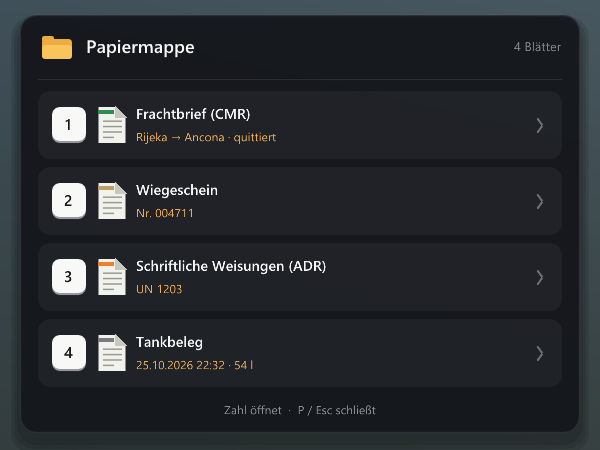
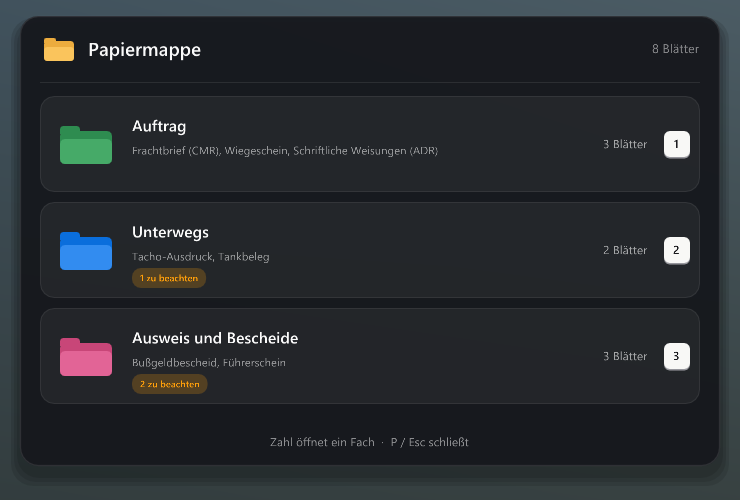
BeyondCab 1.2.0

diff --git a/CHANGELOG.md b/CHANGELOG.md
@@ -1,5 +1,94 @@
 # Änderungen · Changelog
 
+## 1.2.0
+
+**Führerschein, Bußgeldbescheide, Gurt und neue Ausrüstung** – dazu eine neue Papiermappe und Modelle, die aussehen wie die Deko des Spiels.
+
+### Neu
+
+- Führerschein (ETS2) bzw. CDL (ATS) mit eigenen Daten und Foto (Profilbild des Spielprofils oder eigenes Bild): Klassen, ADR-Bescheinigung mit Tankkurs, Code 95; in ATS CDL-Klasse, Endorsements und DOT Medical Card – einstellbar unter Papiere › Führerschein
+- Prüfungen: Die Polizei prüft bei jeder Kontrolle Klasse und Nachweise, der Blitzer meldet eine fehlende Fahrerlaubnis per Brief, der Verlader gibt ohne gültige ADR-Bescheinigung bzw. Hazmat-Endorsement keine Gefahrgut-Papiere heraus, an Wiegestationen in ATS prüft der DOT-Beamte CDL und Medical Card
+- Prüfkarte oben rechts: beim Annehmen eines Auftrags (bei Gefahrgut immer) und wenn der Verlader prüft – was der Auftrag verlangt, mit Haken, Ausrufezeichen oder Kreuz
+- Ablaufdaten: ADR-Bescheinigung, Code 95 und Medical Card laufen ab – Erinnerung eine Woche vorher, Verlängern im Menü
+- Bußgeldbescheide nach jeder Kontrolle und einige Stunden nach dem Blitzer: in Deutschland nach OWiG mit Gebühr und Auslagen, im Ausland mit Titel in der Landessprache, in ATS als Traffic Citation – die letzten 20 bleiben gespeichert, im Menü unter Papiere und als PDF
+- Anschnallen (abschaltbar): Gurt mit J; ohne Gurt ab 25 km/h Warnleuchte und Gong in Intervallen wie im Auto (Lautstärke einstellbar), die Polizei kassiert 30 € bzw. 50 $
+- Papiermappe mit Fächern (Auftrag, Unterwegs, Ausweis und Bescheide): Zahl öffnet ein Fach, dann ein Blatt, P geht zurück
+- Papiere auch im stehenden Truck bzw. Auto ansehen (P blättert durch); Größe der Papiere einstellbar, zu Fuß und im Fahrzeug getrennt
+- Führerschein-Seite im Menü mit Unterseiten (Übersicht, Daten, Klassen, Nachweise): Vorschau der Karte, per Klick groß; Klassen als Kacheln mit Sinnbild; Land bzw. Bundesstaat aus einer Liste; Nachweise mit Gültigkeit und Verlängern in einer Zeile; in ATS erklärt die CDL-Seite jede Klasse und jedes Endorsement
+- Frachtbrief bzw. Bill of Lading: deine Firma aus dem Spielprofil (oder ein eigener Name) als Frachtführer, dazu der Fahrername (abschaltbar) – unterschrieben wird als Fahrer
+- Papiere als PDF speichern: Frachtbriefe, Tankbelege und Bescheide (Menü › Papiere)
+- Erste-Hilfe-Kasten im Staukasten – in ETS2 bei Kontrollen Pflicht
+- Arbeitsleuchte: LED-Strahler mit Akku auf einem Dreibein, leuchtet wirklich, an- und ausschaltbar
+- Taschenlampe: SOS-Modus (blinkt im Morsetakt), und du wählst, welche Modi beim Halten durchgeschaltet werden
+- Ladungssicherung bei der Abfahrtskontrolle je nach Aufbau: Spanngurte, Ketten, Radgurte, Rungen, Twistlocks, Plane, Domdeckel
+- Automatische Updates: BeyondCab sucht beim Start nach einer neuen Version und installiert sie auf Wunsch (Menü › Allgemein › Updates)
+- Einführung: neue Schritte, in denen du Führerschein bzw. CDL gleich einstellst und Kontrollen, Bescheide und Gurt an- oder abschaltest
+
+### Verbessert
+
+- Staukasten neu: Kacheln mit Symbol, wie viele im Kasten und wie viele draußen stehen
+- Eigene Modelle wie die Deko des Spiels: weiche Schattierung in Ecken und Kanten, kaum noch Plastik-Glanz, ruhigere Texturen
+- Road Trip: statt eines Klemmbretts liegt die echte Sendung (Umschlag, Aktenkoffer, Paket) neben Absender bzw. Empfänger
+- ATS: Begriffe wie in den USA (Bill of Lading, Scale Ticket, Citation, ELD) auch in den Meldungen
+- Menü: Pfeile zu Truck, Auflieger und Mitarbeiter als eigener Abschnitt „Wegweiser“, alle Lautstärken unter Geräusche, Auswahllisten mit Kürzel und Namen
+
+### Behoben
+
+- Tasten (Aktion, Taschenlampe, Funkschlüssel, Schnellwahl, Zahlen, PIN am Terminal) reagierten auch, wenn ein anderes Fenster vorne war; Alt+Tab öffnete das Schnellwahl-Rad
+- Nach dem Laden eines Spielstands galt der Truck teils noch als abgeschlossen
+- Abkoppeln ohne Feststellbremse: Die Bremse, die BeyondCab gezogen hatte, wurde gelöst, während man noch draußen stand
+- Road Trip im Auto: Meldung „nicht am ELD angemeldet“, Lkw-Ausrüstung bei der Kontrolle verlangt, Meldungen auf Englisch teils deutsch
+- ATS: Hinweis auf schriftliche Weisungen (ADR), die es dort nicht gibt
+- Taschenlampe: Lichtkegel schwenkte nach dem Einschalten aus der alten Richtung heran
+- Plombe lag bei manchen Aufliegern im Aufbau statt an den Türen
+- An Wiegestationen bzw. Kontrollstellen wurde man bei längerem Stehen alle 2 Spielstunden erneut kontrolliert
+- Feuerlöscher: Spalt zwischen Standring und Behälter
+
+---
+
+**Driving licence, fine notices, seatbelt and new equipment** – plus a new paper folder and models that look like the game's own decorations.
+
+### New
+
+- Driving licence (ETS2) or CDL (ATS) with your own data and photo (your game profile picture or your own image): classes, ADR certificate with tank course, code 95; in ATS CDL class, endorsements and DOT medical card – set under Papers › Licence
+- Checks: police check your class and certificates at every stop, speed cameras report a missing licence by letter, the shipper hands out no dangerous goods papers without a valid ADR certificate or hazmat endorsement, at ATS weigh stations the DOT officer checks CDL and medical card
+- Check card at the top right: when you accept a job (always with dangerous goods) and when the shipper checks – what the job requires, with tick, exclamation mark or cross
+- Expiry dates: ADR certificate, code 95 and medical card expire – reminder a week before, renew in the menu
+- Notices of fine after every check and a few hours after a speed camera: in Germany under the OWiG with fee and expenses, abroad with the title in the local language, in ATS as a traffic citation – the last 20 are kept, in the menu under Papers and as PDF
+- Seatbelt (optional): buckle up with J; without it, above 25 km/h a warning light and a chime in intervals like in a car (volume adjustable), the police charge €30 or $50
+- Paper folder with sections (Job, On the road, Licence and fines): a number opens a section, then a sheet, P goes back
+- View papers while the truck or car is standing (P pages through); paper size adjustable, separately on foot and in the vehicle
+- Licence page in the menu with sub-pages (overview, details, classes, certificates): card preview, click to view it large; classes as tiles with symbols; country or state from a list; certificates with validity and renewal in one row; in ATS the CDL page explains every class and endorsement
+- Consignment note or bill of lading: your company from the game profile (or a name of your own) as the carrier, plus the driver's name (optional) – you sign as the driver
+- Save papers as PDF: consignment notes, fuel receipts and notices (menu › Papers)
+- First aid kit in the storage box – required at checks in ETS2
+- Work light: battery LED floodlight on a tripod, really lights up, can be switched on and off
+- Flashlight: SOS mode (blinks in Morse rhythm), and you choose which modes holding the key cycles through
+- Load securing at the departure check depending on the body: straps, chains, wheel straps, stakes, twistlocks, tarp, dome lids
+- Automatic updates: BeyondCab checks for a new version at start and installs it if you want (menu › General › Updates)
+- Introduction: new steps to set up your licence or CDL right away and to switch checks, notices and seatbelt on or off
+
+### Improved
+
+- New storage box: tiles with icon, how many are in the box and how many are out
+- Own models like the game's decorations: soft shading in corners and edges, hardly any plastic shine, calmer textures
+- Road Trip: instead of a clipboard the real parcel (envelope, briefcase, box) lies next to the sender or recipient
+- ATS: US terms (bill of lading, scale ticket, citation, ELD) in the messages too
+- Menu: pointers to truck, trailer and worker in their own "Pointers" section, all volumes under Sounds, pick lists with code and name
+
+### Fixed
+
+- Keys (action, flashlight, remote key, quick menu, numbers, PIN at the terminal) also reacted while another window was in front; Alt+Tab opened the quick menu
+- After loading a save the truck sometimes still counted as locked
+- Uncoupling without the parking brake: the brake BeyondCab had applied was released while you were still outside
+- Road Trip in a car: "not logged in to the ELD" message, truck equipment demanded at checks, some English messages partly German
+- ATS: hint about instructions in writing (ADR), which don't exist there
+- Flashlight: the beam swung in from the old direction after switching on
+- On some trailers the seal sat inside the body instead of at the doors
+- At weigh stations and inspection points you were checked again every 2 game hours if you stayed there
+- Fire extinguisher: gap between the base ring and the cylinder
+
+
 ## 1.1.0
 
 **ETS2 Walk heißt jetzt BeyondCab** und läuft auch in American Truck Simulator. Das Setup löst die alte Installation ab, Einstellungen und Papiere werden übernommen.

diff --git a/README.de.md b/README.de.md
@@ -28,6 +28,8 @@ Aussteigen, um den Truck gehen, von Hand kuppeln, Papiere unterschreiben, tanken
 
 📄 **Papiere wie in echt** – In ETS2 der CMR-Frachtbrief vom Lager-Mitarbeiter, in ATS die Bill of Lading. Selbst unterschreiben und stempeln, am Ziel quittiert zurück. Dazu Plombe, Wiegeschein, Gefahrgut-Papiere, Fahrerkarte bzw. ELD und Polizei- bzw. DOT-Kontrollen.
 
+🪪 **Führerschein und Bußgeld** – Dein Führerschein (ETS2) bzw. deine CDL (ATS) mit Klassen, ADR und Code 95 bzw. Endorsements und Medical Card – mit deinem Profilbild aus dem Spiel. Polizei, Blitzer und Verlader prüfen ihn, Bußgeldbescheide bzw. Strafzettel kommen in die Papiermappe. Und anschnallen: Ohne Gurt warnt der Gong.
+
 ⛽ **Tanken mit Karte** – Tankdeckel auf, Karte ins Terminal, PIN, an der Säule zählen Betrag und Liter (in ATS Gallonen und Dollar) mit, danach gibt es einen Beleg.
 
 📦 **Road Trip (ATS)** – Bei Kurieraufträgen holst du die Sendung beim Absender ab, legst sie auf den Beifahrersitz und übergibst sie am Ziel dem Empfänger – mit Lieferschein.
@@ -49,7 +51,7 @@ Am Spiel selbst wird nichts verändert: keine Mods in den Spieldateien, keine Ä
 | ![Frachtbrief](bilder/frachtbrief-de.png) | ![Bill of Lading](bilder/bill-of-lading.png) |
 | CMR-Frachtbrief (ETS2), quittiert | Bill of Lading mit HAZMAT (ATS) |
 | ![Papiermappe](bilder/papiermappe-de.png) | ![Schnellwahl](bilder/schnellwahl-de.png) |
-| Papiermappe (P) | Schnellwahl-Rad (Tab halten) |
+| Papiermappe (P) mit Fächern | Schnellwahl-Rad (Tab halten) |
 | ![Tanken](bilder/tanken-de.png) | ![Tanken in den USA](bilder/tanken-us.png) |
 | Tankbeleg, Kartenterminal und Zapfsäule | Dasselbe in ATS: Gallonen und Dollar |
 | ![Schriftliche Weisungen](bilder/weisungen-de.png) | ![ELD](bilder/eld.png) |
@@ -104,13 +106,24 @@ Am Spiel selbst wird nichts verändert: keine Mods in den Spieldateien, keine Ä
 <summary><b>Aufträge und Papiere</b></summary>
 
 - Bei jedem Auftrag steht ein Lager-Mitarbeiter neben dem Auflieger und gibt dir die Papiere: in ETS2 der CMR-Frachtbrief im Durchschreibesatz, in ATS die Bill of Lading – mit Firmen, Städten, Ladung, Gewicht und Kennzeichen aus dem Auftrag
-- Du unterschreibst selbst mit der Maus und drückst deinen Stempel drauf. Name und Ort stellst du im Menü ein
+- Du unterschreibst selbst mit der Maus und drückst deinen Stempel drauf. Die Firma kommt aus deinem Spielprofil (oder du trägst eine eigene ein), dazu dein Name als Fahrer
 - Am Ziel gibst du sie beim Mitarbeiter ab, nach dem Entladen bekommst du sie quittiert zurück. „Parken überspringen“ zählt wie die Übergabe
 - Verplombte Auflieger, eigener Auflieger mit Verladeschein, Palettentausch (ETS2), Wiegeschein bei Tank, Silo und Schüttgut
 - Gefahrgut: in ETS2 nach ADR mit Schriftlichen Weisungen, in ATS nach 49 CFR mit HAZMAT-Kennzeichnung und ERG-Leitfaden
 - Polizei- bzw. DOT-Kontrollen: Hält dich die Polizei an, prüft sie Papiere, Fahrerkarte bzw. ELD und bei Gefahrgut die Ausrüstung. Was fehlt, kostet ein Bußgeld
 - Kühlauflieger: Am Kühlaggregat druckst du das Temperaturprotokoll aus
-- Alles steckt in der Papiermappe (P), die letzten Papiere liegen im Menü unter Papiere
+- Alles steckt in der Papiermappe (P), sortiert in Fächer – auch im stehenden Fahrzeug. Die letzten Papiere liegen im Menü unter Papiere und lassen sich als PDF speichern
+
+</details>
+
+<details>
+<summary><b>Führerschein, Kontrollen und Bußgeld</b></summary>
+
+- Dein Führerschein (ETS2) bzw. deine CDL (ATS) als Karte: Name, Geburtsdatum, Foto (Profilbild aus dem Spiel oder ein eigenes), Klassen, ADR-Bescheinigung und Code 95 – in ATS CDL-Klasse, Endorsements und DOT Medical Card. Einstellen in der Einführung oder unter Papiere › Führerschein
+- Beim Annehmen eines Auftrags zeigt eine Karte oben rechts, ob dein Führerschein reicht. Ohne gültige ADR-Bescheinigung bzw. Hazmat-Endorsement gibt der Verlader keine Gefahrgut-Papiere heraus
+- Polizei und DOT prüfen Klasse und Nachweise, an Wiegestationen in ATS CDL und Medical Card. Nachweise laufen ab – eine Woche vorher kommt eine Erinnerung, verlängert wird im Menü
+- Nach einer Kontrolle oder dem Blitzer kommt ein Bußgeldbescheid als Brief: in Deutschland nach OWiG, im Ausland mit Titel in der Landessprache, in ATS als Traffic Citation
+- Gurt mit J: Ohne Gurt kommen ab 25 km/h Warnleuchte und Gong wie im echten Auto. Die Polizei kassiert dafür
 
 </details>
 
@@ -139,11 +152,11 @@ BeyondCab erkennt von selbst, welches Spiel läuft – es gibt nichts auszuwähl
 <summary><b>Funkschlüssel, Ausrüstung und mehr</b></summary>
 
 - Funkschlüssel: ab- und aufschließen mit Blinkern und auf Wunsch kurzem Hupen, am Truck halten für die Fenster, weit weg halten zum Finden. Follow-me-home und automatisches Abschließen
-- Im Staukasten hinter der Kabine: Warnleuchten, Pylonen, Warndreieck, Unterlegkeile, Feuerlöscher und ein Campingstuhl. Rausnehmen, aufstellen, wieder einsammeln
+- Im Staukasten hinter der Kabine: Warnleuchten, Pylonen, Warndreieck, Unterlegkeile, Feuerlöscher, Erste-Hilfe-Kasten, eine Akku-Arbeitsleuchte auf Dreibein und ein Campingstuhl. Rausnehmen, aufstellen, wieder einsammeln
 - Schnellwahl-Rad (Tab halten), Bänke an Rastplätzen zum Pause machen
-- Taschenlampe in der Hand oder am Kopf, mit mehreren Modi
+- Taschenlampe in der Hand oder am Kopf, mit mehreren Modi samt SOS
 - Controller mit Xbox- oder PlayStation-Symbolen, alle Knöpfe frei belegbar
-- Einführung beim ersten Start, Einstellungen exportieren und importieren, Deutsch und Englisch
+- Einführung beim ersten Start, automatische Updates, Einstellungen exportieren und importieren, Deutsch und Englisch
 
 </details>
 

diff --git a/README.md b/README.md
@@ -28,6 +28,8 @@ English · [Deutsch](README.de.md)
 
 📄 **Real paperwork** – In ETS2 the CMR consignment note from the warehouse worker, in ATS the Bill of Lading. Sign and stamp it yourself and get it back signed at the destination. Plus seals, weighing tickets, dangerous goods papers, driver card or ELD, and police or DOT inspections.
 
+🪪 **Driving licence and fines** – Your licence (ETS2) or CDL (ATS) with classes, ADR and code 95 or endorsements and medical card – with your game profile picture. Police, speed cameras and the shipper check it, notices of fine or traffic citations arrive in your paper folder. And buckle up: without a seatbelt the chime warns you.
+
 ⛽ **Pay at the pump** – Open the fuel cap, card into the terminal, PIN, watch amount and litres (gallons and dollars in ATS) count up, and get a receipt.
 
 📦 **Road Trip (ATS)** – On courier jobs you pick up the parcel from the sender, put it on the passenger seat and hand it over to the recipient at the destination – with a delivery note.
@@ -49,7 +51,7 @@ Nothing in the game is changed: no mods in the game files, no changes to `config
 | ![Consignment note](bilder/frachtbrief-en.png) | ![Bill of Lading](bilder/bill-of-lading.png) |
 | CMR consignment note (ETS2), signed | Bill of Lading with HAZMAT (ATS) |
 | ![Paper folder](bilder/papiermappe-en.png) | ![Quick menu](bilder/schnellwahl-en.png) |
-| Paper folder (P) | Quick menu (hold Tab) |
+| Paper folder (P) with sections | Quick menu (hold Tab) |
 | ![Refuelling](bilder/tanken-en.png) | ![Refuelling in the US](bilder/tanken-us.png) |
 | Fuel receipt, card terminal and pump | The same in ATS: gallons and dollars |
 | ![Instructions in writing](bilder/weisungen-en.png) | ![ELD](bilder/eld.png) |
@@ -104,13 +106,24 @@ Nothing in the game is changed: no mods in the game files, no changes to `config
 <summary><b>Jobs and papers</b></summary>
 
 - On every job a warehouse worker stands next to the trailer and hands you the papers: in ETS2 the multi-part CMR consignment note, in ATS the Bill of Lading – with companies, cities, cargo, weight and plates from the job
-- You sign with the mouse and stamp it yourself. Set your name and town in the menu
+- You sign with the mouse and stamp it yourself. Your company comes from your game profile (or set your own), with your name as the driver
 - At the destination you hand them to the worker and get them back signed after unloading. “Skip parking” counts as the hand-over
 - Sealed trailers, your own trailer with a loading sheet, pallet exchange (ETS2), weighing tickets for tank, silo and bulk loads
 - Dangerous goods: in ETS2 per ADR with instructions in writing, in ATS per 49 CFR with HAZMAT marking and the ERG guide
 - Police or DOT inspections: when the police stop you, they check your papers, driver card or ELD and, for dangerous goods, your equipment. Anything missing costs a fine
 - Refrigerated trailers: print the temperature record at the reefer unit
-- Everything is in the paper folder (P); your latest papers are kept in the menu under Papers
+- Everything is in the paper folder (P), sorted into sections – also while the truck is standing. Your latest papers are kept in the menu under Papers and can be saved as PDF
+
+</details>
+
+<details>
+<summary><b>Driving licence, checks and fines</b></summary>
+
+- Your driving licence (ETS2) or CDL (ATS) as a card: name, date of birth, photo (your game profile picture or your own), classes, ADR certificate and code 95 – in ATS CDL class, endorsements and DOT medical card. Set it up in the introduction or under Papers › Licence
+- When you accept a job, a card at the top right shows whether your licence covers it. Without a valid ADR certificate or hazmat endorsement the shipper won't hand out dangerous goods papers
+- Police and DOT check class and certificates, ATS weigh stations check CDL and medical card. Certificates expire – you get a reminder a week before and renew them in the menu
+- After a check or a speed camera a notice of fine arrives as a letter: in Germany under the OWiG, abroad with the title in the local language, in ATS as a traffic citation
+- Seatbelt with J: without it, above 25 km/h the warning light and chime come on, like in a real car. The police charge for it
 
 </details>
 
@@ -139,11 +152,11 @@ BeyondCab notices by itself which game is running – there's nothing to choose.
 <summary><b>Remote key, equipment and more</b></summary>
 
 - Remote key: lock and unlock with indicators and an optional short honk, hold at the truck for the windows, hold far away to find it. Follow-me-home and automatic locking
-- In the storage box behind the cab: warning lights, cones, warning triangle, chocks, fire extinguisher and a camping chair. Take them out, place them, pick them up again
+- In the storage box behind the cab: warning lights, cones, warning triangle, chocks, fire extinguisher, first aid kit, a battery work light on a tripod and a camping chair. Take them out, place them, pick them up again
 - Quick menu (hold Tab), benches at rest areas to take a break
-- Flashlight in your hand or on your head, with several modes
+- Flashlight in your hand or on your head, with several modes including SOS
 - Controller with Xbox or PlayStation symbols, all buttons can be remapped
-- An introduction on first start, export and import of settings, German and English
+- An introduction on first start, automatic updates, export and import of settings, German and English
 
 </details>
 
